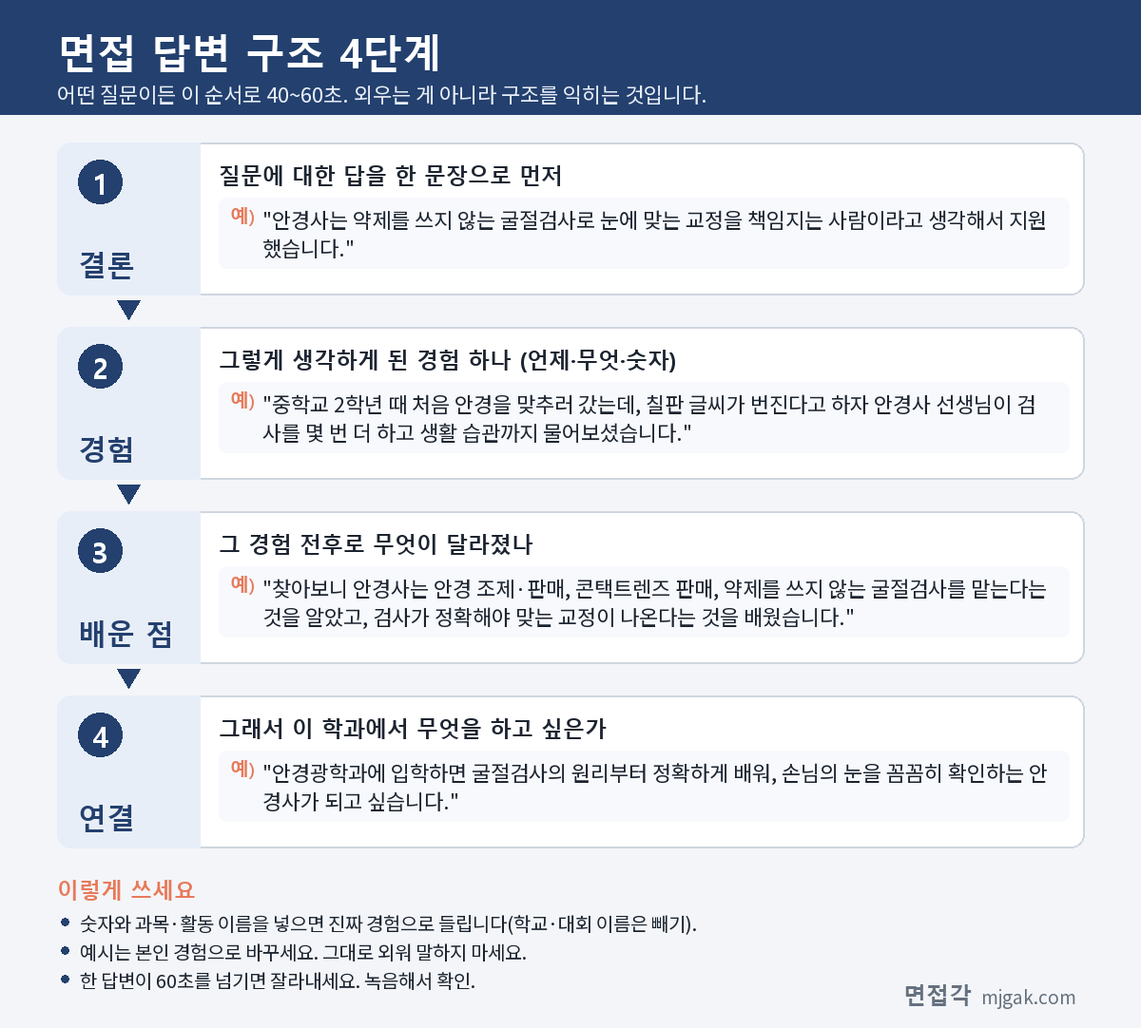
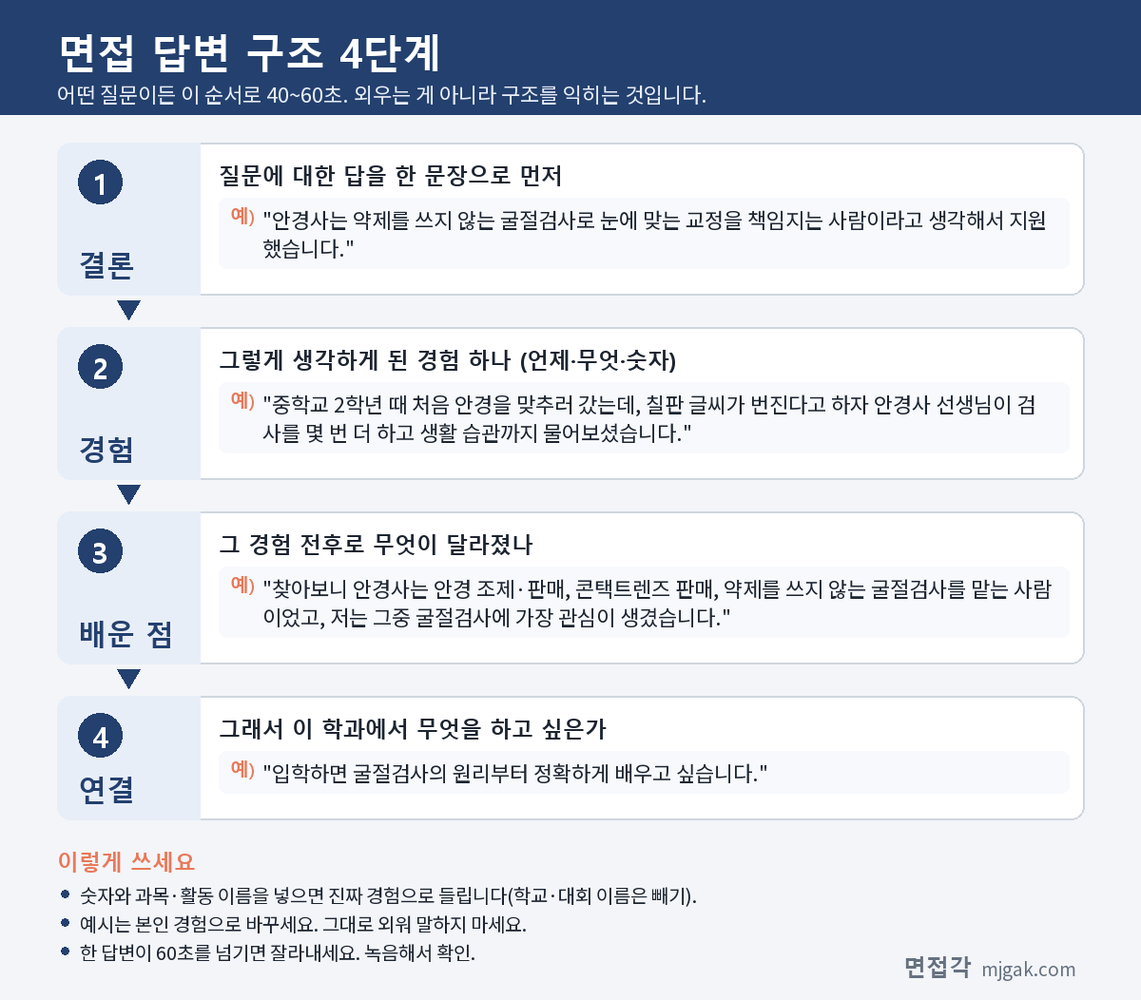
blog: 보건행정학과·안경광학과 학과 글 검수본; site: 안경광학과 근거 없는 30초 권고 삭제

diff --git a/docs/promo/paste/naver-95-안경광학과-붙여넣기.html b/docs/promo/paste/naver-95-안경광학과-붙여넣기.html
@@ -29,7 +29,7 @@ button{border:0;border-radius:8px;padding:10px 16px;font-size:15px;font-weight:b
 <p style="font-size:16px;line-height:1.8;color:#333333;">&#8203;</p>
 <p class="ph" style="font-size:16px;line-height:1.8;color:#333333;background:#fdecea;border:2px dashed #e8795a;padding:10px;color:#c0392b;font-weight:bold;">📷 여기에 이미지 넣기 — 썸네일 — thumb-optometry.png (대표 이미지로 지정)</p>
 <p style="font-size:16px;line-height:1.8;color:#333333;">&#8203;</p>
-<p style="font-size:16px;line-height:1.8;color:#333333;">안경광학과 면접에서 안경사를 &quot;안경을 파는 사람&quot;이라고만 설명하면 이 학과를 고른 이유가 드러나지 않습니다. 의료기사 등에 관한 법률은 안경사를 시력보정용 안경의 조제·판매, 콘택트렌즈 판매, 안경·콘택트렌즈 도수를 조정하기 위해 약제를 쓰지 않는 굴절검사를 주된 업무로 하는 사람으로 정합니다. 그래서 면접 답변에는 네 가지가 들어가면 좋습니다. 법에 정해진 안경사의 업무 범위, 안과 진료가 필요해 보일 때의 판단, 렌즈·빛과 관련해 학생부에 남긴 탐구, 국가시험과 면허까지의 자격 과정입니다. 이 글은 안경광학과 면접 질문 6가지와 답변 예시, 2027학년도 모집요강 네 곳의 면접 방식·날짜, 을지대가 공개한 전년도 면접 문항, 답변 4단계, 2주 준비 순서, 자주 묻는 것들까지 정리했습니다. 수시로 안경광학과에 지원한 고3과 재수생이 읽으시면 됩니다.</p>
+<p style="font-size:16px;line-height:1.8;color:#333333;">안경광학과 면접 답변의 바탕은 법에 정해진 안경사의 업무 범위입니다. 의료기사 등에 관한 법률은 안경사를 시력보정용 안경의 조제·판매, 콘택트렌즈 판매, 안경·콘택트렌즈 도수를 조정하기 위해 약제를 쓰지 않는 굴절검사를 주된 업무로 하는 사람으로 정합니다. 이 글은 안경광학과 면접 질문 6가지와 답변 예시, 2027학년도 모집요강 네 곳의 면접 방식·날짜, 을지대가 공개한 전년도 면접 문항, 답변 4단계, 2주 준비 순서, 자주 묻는 것들까지 정리했습니다. 수시로 안경광학과에 지원한 고3과 재수생이 읽으시면 됩니다.</p>
 <p style="font-size:16px;line-height:1.8;color:#333333;">&#8203;</p>
 <p style="font-size:16px;line-height:1.8;color:#333333;font-size:24px;color:#23406e;"><b>1. 안경광학과 면접, 2027학년도에는 어떻게 보나</b></p>
 <p style="font-size:16px;line-height:1.8;color:#333333;">&#8203;</p>
@@ -39,13 +39,13 @@ button{border:0;border-radius:8px;padding:10px 16px;font-size:15px;font-weight:b
 <p style="font-size:16px;line-height:1.8;color:#333333;">&#8203;</p>
 <p class="ph" style="font-size:16px;line-height:1.8;color:#333333;background:#fdecea;border:2px dashed #e8795a;padding:10px;color:#c0392b;font-weight:bold;">📷 여기에 이미지 넣기 — 캡처 1 — 서울과학기술대학교 2027학년도 수시모집요강 26쪽(PDF 30쪽): seoultech-2027-optometry-method.png</p>
 <p style="font-size:16px;line-height:1.8;color:#333333;">&#8203;</p>
-<p style="font-size:16px;line-height:1.8;color:#333333;">면접은 제출서류에 기초한 개별면접이고, 면접위원 2인이 수험생 1인을 평가합니다. 2인의 면접위원이 학생 1명당 10분 내외로 면접합니다(56쪽). 블라인드 면접이라 교복·군복 등 신분을 알 수 있는 복장 착용을 금지합니다(57쪽). 1단계 합격자 발표는 11월 20일(금) 14:00, 면접은 11월 28일(토) 08:30 / 14:00이며, 개인별 입실 시간과 장소는 1단계 합격자 발표 때 확인할 수 있습니다(27쪽).</p>
+<p style="font-size:16px;line-height:1.8;color:#333333;">면접은 제출서류에 기초한 개별면접이고, 2인의 면접위원이 학생 1명당 10분 내외로 면접합니다(56·57쪽). 블라인드 면접이라 교복·군복 등 신분을 알 수 있는 복장 착용을 금지합니다(57쪽). 1단계 합격자 발표는 11월 20일(금) 14:00, 면접은 11월 28일(토) 08:30 / 14:00이며, 개인별 입실 시간과 장소는 1단계 합격자 발표 때 확인할 수 있습니다(27쪽).</p>
 <p style="font-size:16px;line-height:1.8;color:#333333;">&#8203;</p>
 <p style="font-size:16px;line-height:1.8;color:#333333;">을지대학교 학생부종합 EU면접형 안경광학과는 4명을 뽑습니다(7쪽). 1단계 서류평가 100%로 4배수, 2단계는 1단계 성적 70%에 면접 30%이고 수능 최저는 없습니다. 면접은 &quot;서류기반 일반면접&quot;으로 제출서류를 기반으로 서류 진위 여부를 종합적으로 검증하며, 입학사정관 등이 참여하는 블라인드 면접입니다. 평가 항목은 계열(전공) 적합성 30%, 발전 가능성 30%, 인성 20%, 자세 및 태도 20%입니다(17쪽). 면접 대상자·고사장 발표는 11월 18일(수), 면접은 11월 21일(토) 성남캠퍼스입니다(11·17쪽).</p>
 <p style="font-size:16px;line-height:1.8;color:#333333;">&#8203;</p>
 <p class="ph" style="font-size:16px;line-height:1.8;color:#333333;background:#fdecea;border:2px dashed #e8795a;padding:10px;color:#c0392b;font-weight:bold;">📷 여기에 이미지 넣기 — 캡처 2 — 을지대학교 2027학년도 수시모집요강 17쪽: eulji-2027-optometry-interview.png</p>
 <p style="font-size:16px;line-height:1.8;color:#333333;">&#8203;</p>
-<p style="font-size:16px;line-height:1.8;color:#333333;">을지대는 모집요강에 전년도(2026학년도) 실제 면접 문항을 공개했습니다(18쪽). 모집단위는 표시돼 있지 않지만, 그중에는 &quot;자율탐구 활동에서 알아본 눈과 안경렌즈 위치와 시야의 왜곡의 관계에 대하여 설명해 주세요.&quot;처럼 안경광학과와 이어지는 문항도 있습니다. 학생부에 적힌 탐구를 짚어 개념까지 묻는 방식입니다.</p>
+<p style="font-size:16px;line-height:1.8;color:#333333;">을지대는 2026학년도 실제 면접 문항을 모집요강 18쪽에 공개했습니다. 모집단위는 표시돼 있지 않지만, 그중에는 &quot;자율탐구 활동에서 알아본 눈과 안경렌즈 위치와 시야의 왜곡의 관계에 대하여 설명해 주세요.&quot;처럼 안경광학과와 이어지는 문항도 있습니다.</p>
 <p style="font-size:16px;line-height:1.8;color:#333333;">&#8203;</p>
 <p class="ph" style="font-size:16px;line-height:1.8;color:#333333;background:#fdecea;border:2px dashed #e8795a;padding:10px;color:#c0392b;font-weight:bold;">📷 여기에 이미지 넣기 — 캡처 3 — 을지대학교 2027학년도 수시모집요강 18쪽: eulji-2027-optometry-questions.png</p>
 <p style="font-size:16px;line-height:1.8;color:#333333;">&#8203;</p>
@@ -132,7 +132,7 @@ button{border:0;border-radius:8px;padding:10px 16px;font-size:15px;font-weight:b
 <p style="font-size:16px;line-height:1.8;color:#333333;">&#8203;</p>
 <p style="font-size:16px;line-height:1.8;color:#333333;font-size:24px;color:#23406e;"><b>3. 답변은 이 4단계로 만드세요</b></p>
 <p style="font-size:16px;line-height:1.8;color:#333333;">&#8203;</p>
-<p style="font-size:16px;line-height:1.8;color:#333333;">어떤 질문이든 결론 → 경험 → 배운 점 → 연결, 이 순서로 40~60초 안에 말하면 됩니다. 신한대처럼 3분 내외에 두 문제를 답하는 면접이면 30초 안팎으로 줄인 버전도 만들어 두세요(24쪽). 아래 도식은 질문 1을 4단계로 쪼갠 것입니다.</p>
+<p style="font-size:16px;line-height:1.8;color:#333333;">어떤 질문이든 결론 → 경험 → 배운 점 → 연결, 이 순서로 40~60초 안에 말하면 됩니다. 아래 도식은 질문 1을 4단계로 쪼갠 것입니다.</p>
 <p style="font-size:16px;line-height:1.8;color:#333333;">&#8203;</p>
 <p class="ph" style="font-size:16px;line-height:1.8;color:#333333;background:#fdecea;border:2px dashed #e8795a;padding:10px;color:#c0392b;font-weight:bold;">📷 여기에 이미지 넣기 — 도식 — structure-optometry.png</p>
 <p style="font-size:16px;line-height:1.8;color:#333333;">&#8203;</p>
@@ -164,7 +164,7 @@ button{border:0;border-radius:8px;padding:10px 16px;font-size:15px;font-weight:b
 <p style="font-size:16px;line-height:1.8;color:#333333;">- 11월 28일(토) 08:30 / 14:00: 서울과기대 학교생활우수자 면접</p>
 <p style="font-size:16px;line-height:1.8;color:#333333;">- 12월 18일(금) 14:00: 서울과기대 최초 합격자 발표(27쪽)</p>
 <p style="font-size:16px;line-height:1.8;color:#333333;">&#8203;</p>
-<p style="font-size:16px;line-height:1.8;color:#333333;">두 대학 모두 수능 뒤에 면접이 있습니다. 을지대 지원자는 수능 전에 답변 초안을 끝내고 수능 다음 날은 소리 내어 훑어보기만 하세요. 서울과기대 지원자는 1단계 발표 뒤 8일 동안 학생부 기반 질문을 다듬으면 됩니다.</p>
+<p style="font-size:16px;line-height:1.8;color:#333333;">두 대학 모두 수능 뒤에 면접이 있습니다. 을지대 지원자는 수능 전에 답변 초안을 끝내고 수능 다음 날은 소리 내어 훑어보기만 하세요. 서울과기대 지원자는 1단계 발표(11월 20일)부터 면접(11월 28일)까지 학생부 기반 질문을 다듬으면 됩니다.</p>
 <p style="font-size:16px;line-height:1.8;color:#333333;">&#8203;</p>
 <p style="font-size:16px;line-height:1.8;color:#333333;font-size:24px;color:#23406e;"><b>6. 안경광학과 면접 자주 묻는 것들</b></p>
 <p style="font-size:16px;line-height:1.8;color:#333333;">&#8203;</p>
@@ -196,23 +196,23 @@ button{border:0;border-radius:8px;padding:10px 16px;font-size:15px;font-weight:b
 <p style="font-size:16px;line-height:1.8;color:#333333;font-size:24px;color:#23406e;"><b>8. 같은 시기에 면접 보는 대학</b></p>
 <p style="font-size:16px;line-height:1.8;color:#333333;">&#8203;</p>
 <p style="font-size:16px;line-height:1.8;color:#333333;">안경광학과 면접이 남은 을지대(11월 21일 토요일), 서울과기대(11월 28일 토요일)와 같은 날 면접을 보는 대학입니다.</p>
-<p style="font-size:16px;line-height:1.8;color:#333333;">▷ 인천대 자기추천전형 면접 총정리 (11월 21일)</p>
-<p style="font-size:16px;line-height:1.8;color:#333333;">▷ 서울과기대 학교생활우수자 면접 총정리 (11월 28일)</p>
-<p style="font-size:16px;line-height:1.8;color:#333333;">▷ 서울여대 바롬인재면접전형 면접 총정리 (11월 28일)</p>
+<p style="font-size:16px;line-height:1.8;color:#333333;">▷ <a href="https://blog.naver.com/sabuboss/224451830017" style="color:#23406e;"><b>인천대 자기추천전형 면접 총정리 (11월 21일)</b></a></p>
+<p style="font-size:16px;line-height:1.8;color:#333333;">▷ <a href="https://blog.naver.com/sabuboss/224441988236" style="color:#23406e;"><b>서울과기대 학교생활우수자 면접 총정리 (11월 28일)</b></a></p>
+<p style="font-size:16px;line-height:1.8;color:#333333;">▷ <a href="https://blog.naver.com/sabuboss/224444881161" style="color:#23406e;"><b>서울여대 바롬인재면접전형 면접 총정리 (11월 28일)</b></a></p>
 <p style="font-size:16px;line-height:1.8;color:#333333;">&#8203;</p>
 <p style="font-size:16px;line-height:1.8;color:#333333;font-size:24px;color:#23406e;"><b>9. 함께 보면 좋은 글</b></p>
 <p style="font-size:16px;line-height:1.8;color:#333333;">&#8203;</p>
-<p style="font-size:16px;line-height:1.8;color:#333333;">▷ 보건계열 면접 질문 총정리</p>
-<p style="font-size:16px;line-height:1.8;color:#333333;">▷ 임상병리학과 면접 질문 6가지와 답변 예시 총정리</p>
-<p style="font-size:16px;line-height:1.8;color:#333333;">▷ 수능 끝나고 면접 보는 대학 총정리</p>
-<p style="font-size:16px;line-height:1.8;color:#333333;">▷ 1단계 합격 후 면접까지 1주일 준비법</p>
+<p style="font-size:16px;line-height:1.8;color:#333333;">▷ <a href="https://blog.naver.com/sabuboss/224454990771" style="color:#23406e;"><b>보건계열 면접 질문 총정리</b></a></p>
+<p style="font-size:16px;line-height:1.8;color:#333333;">▷ <a href="https://blog.naver.com/sabuboss/224452870138" style="color:#23406e;"><b>임상병리학과 면접 질문 6가지와 답변 예시 총정리</b></a></p>
+<p style="font-size:16px;line-height:1.8;color:#333333;">▷ <a href="https://blog.naver.com/sabuboss/224450930103" style="color:#23406e;"><b>수능 끝나고 면접 보는 대학 총정리</b></a></p>
+<p style="font-size:16px;line-height:1.8;color:#333333;">▷ <a href="https://blog.naver.com/sabuboss/224444656375" style="color:#23406e;"><b>1단계 합격 후 면접까지 1주일 준비법</b></a></p>
 <p style="font-size:16px;line-height:1.8;color:#333333;">&#8203;</p>
 <p style="font-size:16px;line-height:1.8;color:#333333;">안경광학과 면접은 렌즈 지식을 많이 늘어놓기보다, 법에 정해진 범위 안에서 손님의 눈을 먼저 확인할 사람인지를 내 경험으로 설명하는 자리입니다.</p>
 <p style="font-size:16px;line-height:1.8;color:#333333;">&#8203;</p>
 <p style="font-size:16px;line-height:1.8;color:#333333;">※ 이 글의 모집요강 내용은 서울과학기술대학교, 을지대학교, 백석대학교, 신한대학교 2027학년도 수시모집요강에서 인용했습니다. 괄호 안 쪽수는 각 모집요강에 인쇄된 쪽수입니다. 질문 6가지는 평가 항목을 바탕으로 정리한 예상 질문이며, 을지대 공개 문항 외에는 대학이 공개한 질문이 아닙니다. 면접 방식과 일정은 바뀔 수 있으니 지원 대학 입학처 공지를 꼭 확인하세요.</p>
 <p style="font-size:16px;line-height:1.8;color:#333333;">&#8203;</p>
 <p style="font-size:16px;line-height:1.8;color:#333333;">안경광학과를 포함한 71개 학과별 면접 질문·답변 예시와 76개 대학의 2027학년도 면접 정보, 대학이 공개한 실제 면접 기출을 무료로 정리한 사이트입니다. 회원가입 없이 바로 볼 수 있고, 질문을 무작위로 뽑아 60초 타이머로 연습하는 모의 면접도 있습니다.</p>
-<p style="font-size:16px;line-height:1.8;color:#333333;"><b><a href="https://mjgak.com/dept/optometry/?utm_source=naver_blog&amp;utm_medium=post" style="color:#23406e;">→면접각 바로가기</a></b></p>
+<p style="font-size:16px;line-height:1.8;color:#333333;"><b><a href="https://mjgak.com/dept/optometry/?utm_source=naver_blog&amp;utm_medium=post&amp;utm_campaign=post-95" style="color:#23406e;">→면접각 바로가기</a></b></p>
 <p style="font-size:16px;line-height:1.8;color:#333333;">&#8203;</p>
 </div></div>
 <div class="box"><p class="lbl">태그 (#은 에디터가 자동으로 붙이므로 그대로 붙여 넣어도 됩니다)</p><div id="tags">#안경광학과면접 #안경광학과면접질문 #안경광학과면접준비 #안경광학과면접답변 #안경광학과수시 #안경사 #안경사국가시험 #서울과기대안경광학과 #을지대안경광학과 #백석대안경광학과 #신한대안경광학과 #EU면접형 #학교생활우수자전형 #보건계열면접 #학생부종합면접 #수시면접 #2027수시</div></div>

diff --git a/docs/promo/paste/naver-94-보건행정학과-붙여넣기.html b/docs/promo/paste/naver-94-보건행정학과-붙여넣기.html
@@ -43,7 +43,7 @@ button{border:0;border-radius:8px;padding:10px 16px;font-size:15px;font-weight:b
 <p style="font-size:16px;line-height:1.8;color:#333333;">&#8203;</p>
 <p class="ph" style="font-size:16px;line-height:1.8;color:#333333;background:#fdecea;border:2px dashed #e8795a;padding:10px;color:#c0392b;font-weight:bold;">📷 여기에 이미지 넣기 — 캡처 2 — 을지대학교 2027학년도 수시모집요강 17쪽: eulji-2027-healthadm-interview.png</p>
 <p style="font-size:16px;line-height:1.8;color:#333333;">&#8203;</p>
-<p style="font-size:16px;line-height:1.8;color:#333333;">을지대는 모집요강 18쪽에 2026학년도 실제 면접 문항 예시를 공개했습니다. 모집단위는 표시돼 있지 않지만, 그중에는 &quot;동아리 활동에서 수행한 보건 통계 분석은 어떤 자료를 활용했으며, 이를 통해 알게 된 내용은 무엇인지 이야기해 주세요.&quot;처럼 보건 자료를 다룬 활동을 묻는 문항도 있습니다. 학생부에 적힌 활동에서 쓴 자료와 알게 된 것을 묻는 방식입니다.</p>
+<p style="font-size:16px;line-height:1.8;color:#333333;">을지대는 모집요강 18쪽에 2026학년도 실제 면접 문항 예시를 공개했습니다. 모집단위는 표시돼 있지 않지만, 그중에는 &quot;동아리 활동에서 수행한 보건 통계 분석은 어떤 자료를 활용했으며, 이를 통해 알게 된 내용은 무엇인지 이야기해 주세요.&quot;처럼 보건 자료를 다룬 활동을 묻는 문항도 있습니다. 요강은 EU면접형이 &#x27;서류기반면접&#x27;이라 지원자 개인의 이야기에 따라 서로 다른 질문 문항이 나온다고 설명합니다.</p>
 <p style="font-size:16px;line-height:1.8;color:#333333;">&#8203;</p>
 <p class="ph" style="font-size:16px;line-height:1.8;color:#333333;background:#fdecea;border:2px dashed #e8795a;padding:10px;color:#c0392b;font-weight:bold;">📷 여기에 이미지 넣기 — 캡처 3 — 을지대학교 2027학년도 수시모집요강 18쪽: eulji-2027-healthadm-questions.png</p>
 <p style="font-size:16px;line-height:1.8;color:#333333;">&#8203;</p>
@@ -191,23 +191,23 @@ button{border:0;border-radius:8px;padding:10px 16px;font-size:15px;font-weight:b
 <p style="font-size:16px;line-height:1.8;color:#333333;font-size:24px;color:#23406e;"><b>8. 같은 시기에 면접 보는 대학</b></p>
 <p style="font-size:16px;line-height:1.8;color:#333333;">&#8203;</p>
 <p style="font-size:16px;line-height:1.8;color:#333333;">을지대 EU면접형 면접일(11월 21일 토요일)과 같은 날 면접을 보는 대학입니다.</p>
-<p style="font-size:16px;line-height:1.8;color:#333333;">▷ 인천대 자기추천전형 면접 총정리 (11월 21일)</p>
-<p style="font-size:16px;line-height:1.8;color:#333333;">▷ 경북대 학생부종합 지역인재전형 면접 총정리 (11월 21일)</p>
-<p style="font-size:16px;line-height:1.8;color:#333333;">▷ 국민대 국민프런티어 면접 총정리 (11월 21일·22일)</p>
+<p style="font-size:16px;line-height:1.8;color:#333333;">▷ <a href="https://blog.naver.com/sabuboss/224451830017" style="color:#23406e;"><b>인천대 자기추천전형 면접 총정리 (11월 21일)</b></a></p>
+<p style="font-size:16px;line-height:1.8;color:#333333;">▷ <a href="https://blog.naver.com/sabuboss/224452371612" style="color:#23406e;"><b>경북대 학생부종합 지역인재전형 면접 총정리 (11월 21일)</b></a></p>
+<p style="font-size:16px;line-height:1.8;color:#333333;">▷ <a href="https://blog.naver.com/sabuboss/224444202452" style="color:#23406e;"><b>국민대 국민프런티어 면접 총정리 (11월 21일·22일)</b></a></p>
 <p style="font-size:16px;line-height:1.8;color:#333333;">&#8203;</p>
 <p style="font-size:16px;line-height:1.8;color:#333333;font-size:24px;color:#23406e;"><b>9. 함께 보면 좋은 글</b></p>
 <p style="font-size:16px;line-height:1.8;color:#333333;">&#8203;</p>
-<p style="font-size:16px;line-height:1.8;color:#333333;">▷ 보건계열 면접 질문 총정리</p>
-<p style="font-size:16px;line-height:1.8;color:#333333;">▷ 임상병리학과 면접 질문 6가지와 답변 예시 총정리</p>
-<p style="font-size:16px;line-height:1.8;color:#333333;">▷ 행정학과 면접 질문 6가지와 답변 예시 총정리</p>
-<p style="font-size:16px;line-height:1.8;color:#333333;">▷ 수능 끝나고 면접 보는 대학 총정리</p>
+<p style="font-size:16px;line-height:1.8;color:#333333;">▷ <a href="https://blog.naver.com/sabuboss/224454990771" style="color:#23406e;"><b>보건계열 면접 질문 총정리</b></a></p>
+<p style="font-size:16px;line-height:1.8;color:#333333;">▷ <a href="https://blog.naver.com/sabuboss/224452870138" style="color:#23406e;"><b>임상병리학과 면접 질문 6가지와 답변 예시 총정리</b></a></p>
+<p style="font-size:16px;line-height:1.8;color:#333333;">▷ <a href="https://blog.naver.com/sabuboss/224435713729" style="color:#23406e;"><b>행정학과 면접 질문 6가지와 답변 예시 총정리</b></a></p>
+<p style="font-size:16px;line-height:1.8;color:#333333;">▷ <a href="https://blog.naver.com/sabuboss/224450930103" style="color:#23406e;"><b>수능 끝나고 면접 보는 대학 총정리</b></a></p>
 <p style="font-size:16px;line-height:1.8;color:#333333;">&#8203;</p>
 <p style="font-size:16px;line-height:1.8;color:#333333;">보건행정학과 면접은 병원에서 일하고 싶다는 마음을 말하는 데서 그치지 않고, 지원 학과에서 배울 것과 기록·정보를 정확하게 다뤄 온 내 경험을 확인한 사실로 설명하는 자리입니다.</p>
 <p style="font-size:16px;line-height:1.8;color:#333333;">&#8203;</p>
 <p style="font-size:16px;line-height:1.8;color:#333333;">※ 이 글의 모집요강 내용은 남서울대학교, 을지대학교, 부산가톨릭대학교 2027학년도 수시모집요강에서 인용했습니다. 괄호 안 쪽수는 각 모집요강에 인쇄된 쪽수입니다. 보건의료정보관리사 관련 내용은 의료기사 등에 관한 법률과 한국보건의료인국가시험원 안내를 바탕으로 정리했습니다. 질문 6가지는 평가 항목을 바탕으로 정리한 예상 질문이며, 을지대 공개 문항 외에는 대학이 공개한 질문이 아닙니다. 면접 방식과 일정은 바뀔 수 있으니 지원 대학 입학처 공지를 꼭 확인하세요.</p>
 <p style="font-size:16px;line-height:1.8;color:#333333;">&#8203;</p>
 <p style="font-size:16px;line-height:1.8;color:#333333;">보건행정학과를 포함한 71개 학과별 면접 질문·답변 예시와 76개 대학의 2027학년도 면접 정보, 대학이 공개한 실제 면접 기출을 무료로 정리한 사이트입니다. 회원가입 없이 바로 볼 수 있고, 질문을 무작위로 뽑아 60초 타이머로 연습하는 모의 면접도 있습니다.</p>
-<p style="font-size:16px;line-height:1.8;color:#333333;"><b><a href="https://mjgak.com/dept/health-administration/?utm_source=naver_blog&amp;utm_medium=post" style="color:#23406e;">→면접각 바로가기</a></b></p>
+<p style="font-size:16px;line-height:1.8;color:#333333;"><b><a href="https://mjgak.com/dept/health-administration/?utm_source=naver_blog&amp;utm_medium=post&amp;utm_campaign=post-94" style="color:#23406e;">→면접각 바로가기</a></b></p>
 <p style="font-size:16px;line-height:1.8;color:#333333;">&#8203;</p>
 </div></div>
 <div class="box"><p class="lbl">태그 (#은 에디터가 자동으로 붙이므로 그대로 붙여 넣어도 됩니다)</p><div id="tags">#보건행정학과면접 #보건행정학과면접질문 #보건행정학과면접준비 #보건행정학과면접답변 #보건행정학과수시 #의료경영학과면접 #병원경영학과면접 #보건의료정보관리사 #남서울대보건행정학과 #을지대의료경영학과 #부산가톨릭대병원경영학과 #EU면접형 #영상면접 #보건계열면접 #수시면접 #2027수시 #대입면접</div></div>

diff --git a/docs/promo/img/jobs_optometry.py b/docs/promo/img/jobs_optometry.py
@@ -30,8 +30,8 @@ def jobs_optometry():
     make_structure(HERE / "structure-optometry.png", [
         "안경사는 약제를 쓰지 않는 굴절검사로 눈에 맞는 교정을 책임지는 사람이라고 생각해서 지원했습니다.",
         "중학교 2학년 때 처음 안경을 맞추러 갔는데, 칠판 글씨가 번진다고 하자 안경사 선생님이 검사를 몇 번 더 하고 생활 습관까지 물어보셨습니다.",
-        "찾아보니 안경사는 안경 조제·판매, 콘택트렌즈 판매, 약제를 쓰지 않는 굴절검사를 맡는다는 것을 알았고, 검사가 정확해야 맞는 교정이 나온다는 것을 배웠습니다.",
-        "안경광학과에 입학하면 굴절검사의 원리부터 정확하게 배워, 손님의 눈을 꼼꼼히 확인하는 안경사가 되고 싶습니다.",
+        "찾아보니 안경사는 안경 조제·판매, 콘택트렌즈 판매, 약제를 쓰지 않는 굴절검사를 맡는 사람이었고, 저는 그중 굴절검사에 가장 관심이 생겼습니다.",
+        "입학하면 굴절검사의 원리부터 정확하게 배우고 싶습니다.",
     ])
 
 

diff --git a/docs/promo/naver-95-안경광학과-v2.md b/docs/promo/naver-95-안경광학과-v2.md
@@ -2,7 +2,7 @@
 
 [썸네일 — thumb-optometry.png (대표 이미지로 지정)]
 
-안경광학과 면접에서 안경사를 "안경을 파는 사람"이라고만 설명하면 이 학과를 고른 이유가 드러나지 않습니다. 의료기사 등에 관한 법률은 안경사를 시력보정용 안경의 조제·판매, 콘택트렌즈 판매, 안경·콘택트렌즈 도수를 조정하기 위해 약제를 쓰지 않는 굴절검사를 주된 업무로 하는 사람으로 정합니다. 그래서 면접 답변에는 네 가지가 들어가면 좋습니다. 법에 정해진 안경사의 업무 범위, 안과 진료가 필요해 보일 때의 판단, 렌즈·빛과 관련해 학생부에 남긴 탐구, 국가시험과 면허까지의 자격 과정입니다. 이 글은 안경광학과 면접 질문 6가지와 답변 예시, 2027학년도 모집요강 네 곳의 면접 방식·날짜, 을지대가 공개한 전년도 면접 문항, 답변 4단계, 2주 준비 순서, 자주 묻는 것들까지 정리했습니다. 수시로 안경광학과에 지원한 고3과 재수생이 읽으시면 됩니다.
+안경광학과 면접 답변의 바탕은 법에 정해진 안경사의 업무 범위입니다. 의료기사 등에 관한 법률은 안경사를 시력보정용 안경의 조제·판매, 콘택트렌즈 판매, 안경·콘택트렌즈 도수를 조정하기 위해 약제를 쓰지 않는 굴절검사를 주된 업무로 하는 사람으로 정합니다. 이 글은 안경광학과 면접 질문 6가지와 답변 예시, 2027학년도 모집요강 네 곳의 면접 방식·날짜, 을지대가 공개한 전년도 면접 문항, 답변 4단계, 2주 준비 순서, 자주 묻는 것들까지 정리했습니다. 수시로 안경광학과에 지원한 고3과 재수생이 읽으시면 됩니다.
 
 ■ 안경광학과 면접, 2027학년도에는 어떻게 보나
 
@@ -12,13 +12,13 @@
 
 [캡처 1 — 서울과학기술대학교 2027학년도 수시모집요강 26쪽(PDF 30쪽): seoultech-2027-optometry-method.png]
 
-면접은 제출서류에 기초한 개별면접이고, 면접위원 2인이 수험생 1인을 평가합니다. 2인의 면접위원이 학생 1명당 10분 내외로 면접합니다(56쪽). 블라인드 면접이라 교복·군복 등 신분을 알 수 있는 복장 착용을 금지합니다(57쪽). 1단계 합격자 발표는 11월 20일(금) 14:00, 면접은 11월 28일(토) 08:30 / 14:00이며, 개인별 입실 시간과 장소는 1단계 합격자 발표 때 확인할 수 있습니다(27쪽).
+면접은 제출서류에 기초한 개별면접이고, 2인의 면접위원이 학생 1명당 10분 내외로 면접합니다(56·57쪽). 블라인드 면접이라 교복·군복 등 신분을 알 수 있는 복장 착용을 금지합니다(57쪽). 1단계 합격자 발표는 11월 20일(금) 14:00, 면접은 11월 28일(토) 08:30 / 14:00이며, 개인별 입실 시간과 장소는 1단계 합격자 발표 때 확인할 수 있습니다(27쪽).
 
 을지대학교 학생부종합 EU면접형 안경광학과는 4명을 뽑습니다(7쪽). 1단계 서류평가 100%로 4배수, 2단계는 1단계 성적 70%에 면접 30%이고 수능 최저는 없습니다. 면접은 "서류기반 일반면접"으로 제출서류를 기반으로 서류 진위 여부를 종합적으로 검증하며, 입학사정관 등이 참여하는 블라인드 면접입니다. 평가 항목은 계열(전공) 적합성 30%, 발전 가능성 30%, 인성 20%, 자세 및 태도 20%입니다(17쪽). 면접 대상자·고사장 발표는 11월 18일(수), 면접은 11월 21일(토) 성남캠퍼스입니다(11·17쪽).
 
 [캡처 2 — 을지대학교 2027학년도 수시모집요강 17쪽: eulji-2027-optometry-interview.png]
 
-을지대는 모집요강에 전년도(2026학년도) 실제 면접 문항을 공개했습니다(18쪽). 모집단위는 표시돼 있지 않지만, 그중에는 "자율탐구 활동에서 알아본 눈과 안경렌즈 위치와 시야의 왜곡의 관계에 대하여 설명해 주세요."처럼 안경광학과와 이어지는 문항도 있습니다. 학생부에 적힌 탐구를 짚어 개념까지 묻는 방식입니다.
+을지대는 2026학년도 실제 면접 문항을 모집요강 18쪽에 공개했습니다. 모집단위는 표시돼 있지 않지만, 그중에는 "자율탐구 활동에서 알아본 눈과 안경렌즈 위치와 시야의 왜곡의 관계에 대하여 설명해 주세요."처럼 안경광학과와 이어지는 문항도 있습니다.
 
 [캡처 3 — 을지대학교 2027학년도 수시모집요강 18쪽: eulji-2027-optometry-questions.png]
 
@@ -105,7 +105,7 @@
 
 ■ 답변은 이 4단계로 만드세요
 
-어떤 질문이든 결론 → 경험 → 배운 점 → 연결, 이 순서로 40~60초 안에 말하면 됩니다. 신한대처럼 3분 내외에 두 문제를 답하는 면접이면 30초 안팎으로 줄인 버전도 만들어 두세요(24쪽). 아래 도식은 질문 1을 4단계로 쪼갠 것입니다.
+어떤 질문이든 결론 → 경험 → 배운 점 → 연결, 이 순서로 40~60초 안에 말하면 됩니다. 아래 도식은 질문 1을 4단계로 쪼갠 것입니다.
 
 [도식 — structure-optometry.png]
 
@@ -137,7 +137,7 @@
 - 11월 28일(토) 08:30 / 14:00: 서울과기대 학교생활우수자 면접
 - 12월 18일(금) 14:00: 서울과기대 최초 합격자 발표(27쪽)
 
-두 대학 모두 수능 뒤에 면접이 있습니다. 을지대 지원자는 수능 전에 답변 초안을 끝내고 수능 다음 날은 소리 내어 훑어보기만 하세요. 서울과기대 지원자는 1단계 발표 뒤 8일 동안 학생부 기반 질문을 다듬으면 됩니다.
+두 대학 모두 수능 뒤에 면접이 있습니다. 을지대 지원자는 수능 전에 답변 초안을 끝내고 수능 다음 날은 소리 내어 훑어보기만 하세요. 서울과기대 지원자는 1단계 발표(11월 20일)부터 면접(11월 28일)까지 학생부 기반 질문을 다듬으면 됩니다.
 
 ■ 안경광학과 면접 자주 묻는 것들
 
